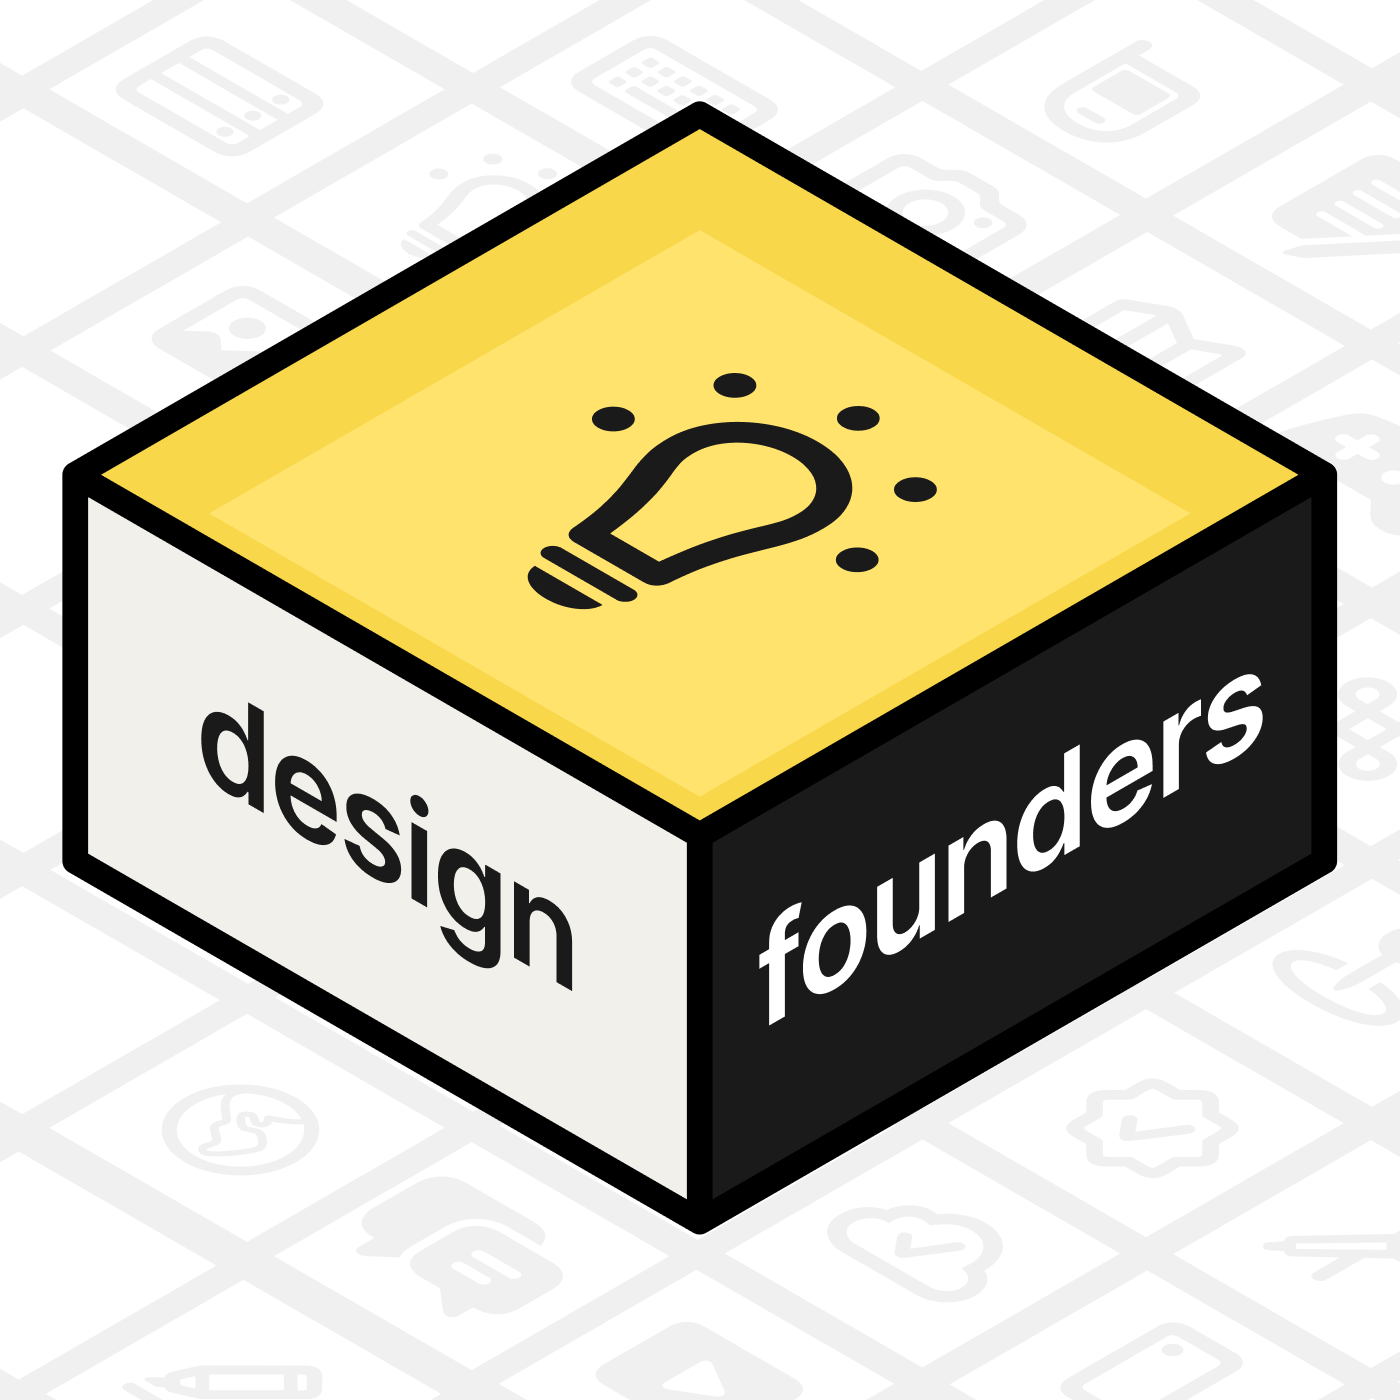
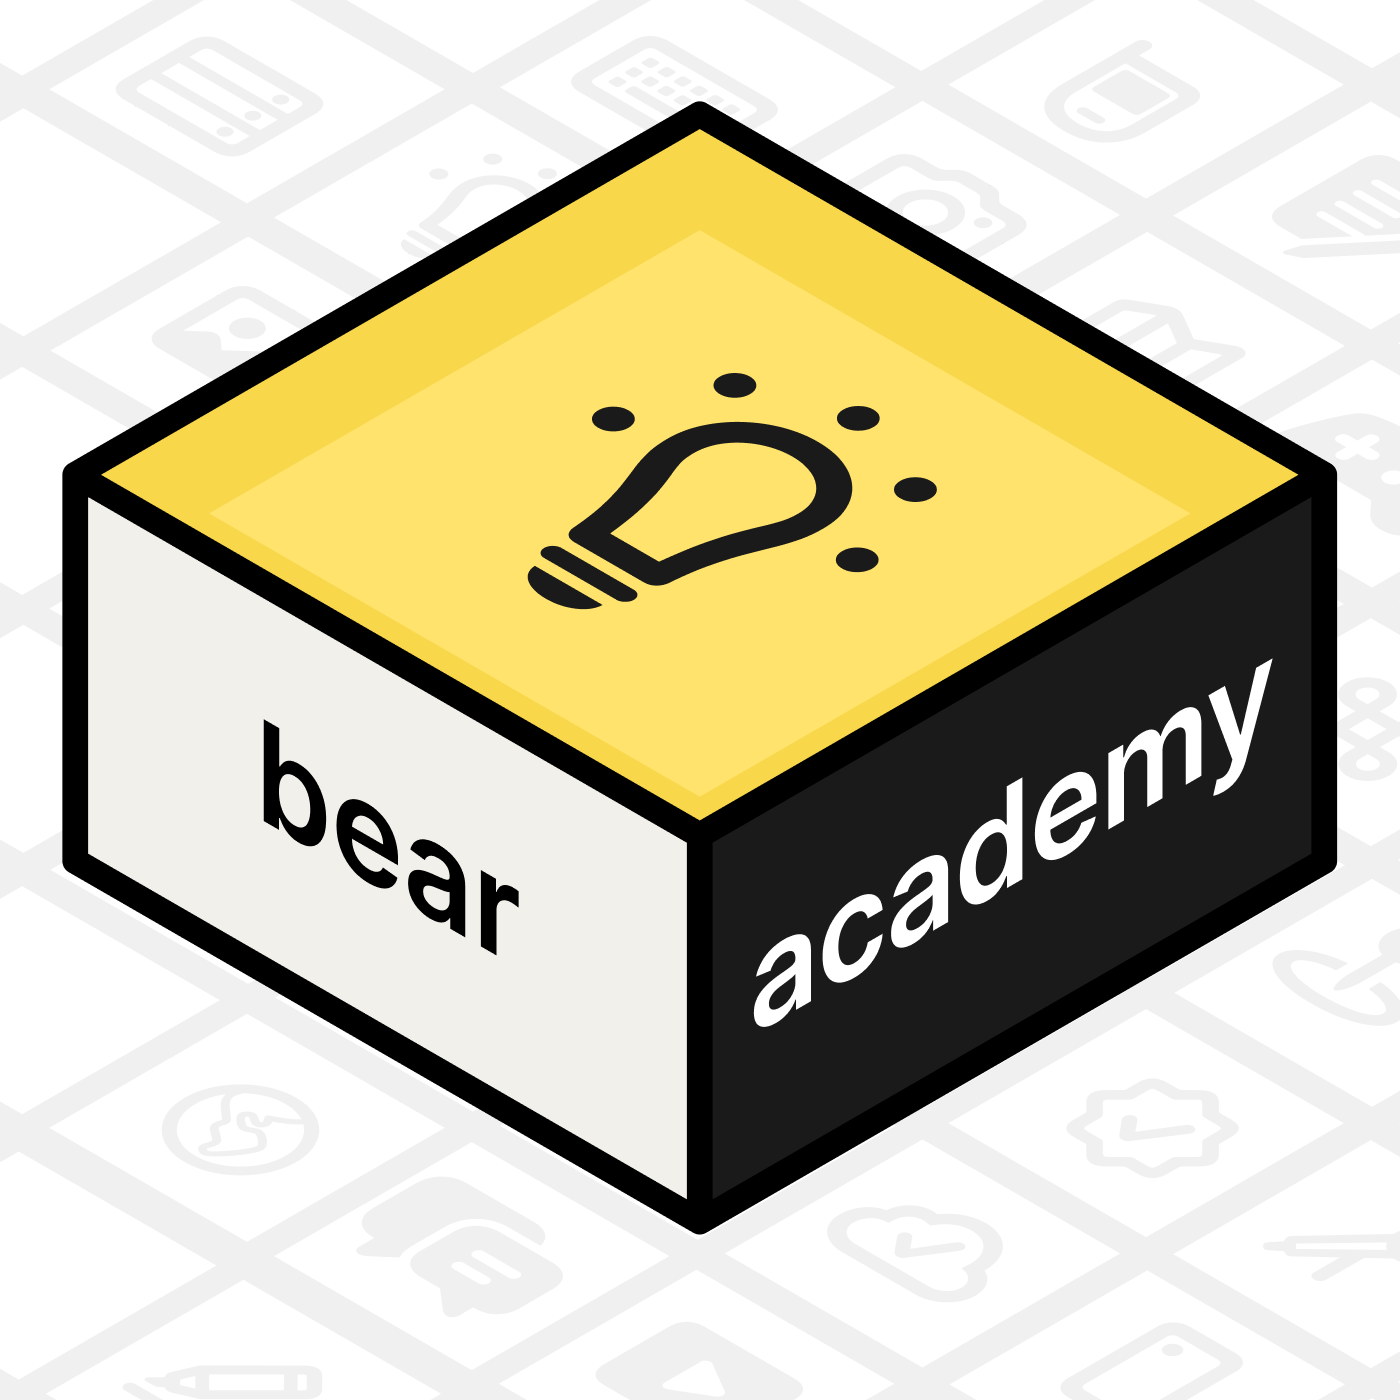
feat(podcast): /podcast 从 Design Founders 切换到 Bear Academy
- 标题/描述/封面/平台链接全部换成 Bear Academy（show id1536234805）
- 剧集编号改用真实序号 #53 Luca / #54 Felix，公司拼写修正为 Scarlo
- 单期链接保留 RedCircle + Apple + YouTube，去掉单期 Spotify
- 顶部 show 按钮：YouTube playlist / Spotify show / Apple
- 顺手修页脚邮箱 [email redacted] → [email redacted]（14.2 漏改）

Changed region(s): [[0.5221, 0.4607, 0.9214, 0.7371], [0.1229, 0.4914, 0.43, 0.7064]]

diff --git a/app/podcast/page.tsx b/app/podcast/page.tsx
@@ -5,7 +5,7 @@ import { episodes } from "../data/episodes"
 const platformLinks = [
   {
     name: "YouTube",
-    href: "https://www.youtube.com/playlist?list=PL-RK8UwXSeaoDwy7RZmpSrAj5AQirm0Fw",
+    href: "https://www.youtube.com/playlist?list=PL-RK8UwXSearlJdaf38IARoUhXeGWQoAL",
     icon: (
       <svg width="20" height="20" viewBox="0 0 24 24" fill="currentColor">
         <path d="M23.498 6.186a3.016 3.016 0 0 0-2.122-2.136C19.505 3.545 12 3.545 12 3.545s-7.505 0-9.377.505A3.017 3.017 0 0 0 .502 6.186C0 8.07 0 12 0 12s0 3.93.502 5.814a3.016 3.016 0 0 0 2.122 2.136c1.871.505 9.376.505 9.376.505s7.505 0 9.377-.505a3.015 3.015 0 0 0 2.122-2.136C24 15.93 24 12 24 12s0-3.93-.502-5.814zM9.545 15.568V8.432L15.818 12l-6.273 3.568z" />
@@ -14,7 +14,7 @@ const platformLinks = [
   },
   {
     name: "Spotify",
-    href: "https://open.spotify.com/show/2THaWIyoL0G8CoMupHehZr",
+    href: "https://open.spotify.com/show/4OoASKWSTlsdb2nCQ8BaeQ",
     icon: (
       <svg width="20" height="20" viewBox="0 0 24 24" fill="currentColor">
         <path d="M12 0C5.4 0 0 5.4 0 12s5.4 12 12 12 12-5.4 12-12S18.66 0 12 0zm5.521 17.34c-.24.359-.66.48-1.021.24-2.82-1.74-6.36-2.101-10.561-1.141-.418.122-.779-.179-.899-.539-.12-.421.18-.78.54-.9 4.56-1.021 8.52-.6 11.64 1.32.42.18.479.659.301 1.02zm1.44-3.3c-.301.42-.841.6-1.262.3-3.239-1.98-8.159-2.58-11.939-1.38-.479.12-1.02-.12-1.14-.6-.12-.48.12-1.021.6-1.141C9.6 9.9 15 10.561 18.72 12.84c.361.181.54.78.241 1.2zm.12-3.36C15.24 8.4 8.82 8.16 5.16 9.301c-.6.179-1.2-.181-1.38-.721-.18-.601.18-1.2.72-1.381 4.26-1.26 11.28-1.02 15.721 1.621.539.3.719 1.02.419 1.56-.299.421-1.02.599-1.559.3z" />
@@ -23,7 +23,7 @@ const platformLinks = [
   },
   {
     name: "Apple Podcasts",
-    href: "https://podcasts.apple.com/us/podcast/design-founders/id1885803621",
+    href: "https://podcasts.apple.com/nz/podcast/bear-academy/id1536234805",
     icon: (
       <svg width="20" height="20" viewBox="0 0 24 24" fill="currentColor">
         <path d="M5.34 0A5.328 5.328 0 0 0 0 5.34v13.32A5.328 5.328 0 0 0 5.34 24h13.32A5.328 5.328 0 0 0 24 18.66V5.34A5.328 5.328 0 0 0 18.66 0H5.34zm6.525 2.568c2.336 0 4.448.902 6.056 2.587 1.224 1.272 1.912 2.619 2.264 4.392.12.6-.36 1.2-.96 1.2h-.12c-.48 0-.84-.36-.96-.84-.264-1.272-.744-2.352-1.68-3.36C14.93 5.04 13.27 4.26 11.4 4.26c-3.36 0-6.12 2.76-6.12 6.12 0 2.04.96 3.84 2.52 4.92.36.24.48.72.24 1.08-.24.36-.72.48-1.08.24C4.92 15.12 3.6 12.84 3.6 10.38c0-4.26 3.48-7.812 8.265-7.812zM12 7.32c1.8 0 3.372.864 4.38 2.304.48.72.78 1.44.936 2.328.072.36-.072.72-.36.96-.12.12-.288.168-.456.168-.36 0-.648-.24-.72-.6-.096-.6-.312-1.128-.636-1.632-.72-1.08-1.92-1.728-3.24-1.728-2.208 0-3.96 1.728-3.96 3.96 0 1.2.48 2.16 1.44 2.976.36.24.36.72.12 1.08-.264.36-.72.36-1.08.12C7.2 16.2 6.36 14.616 6.36 12.6c0-3.12 2.52-5.28 5.64-5.28zm.024 4.368c.984 0 1.8.816 1.8 1.8 0 .672-.36 1.248-.888 1.56v3.168c0 .504-.408.912-.912.912a.916.916 0 0 1-.912-.912V15.12a1.8 1.8 0 0 1-.888-1.56c0-.984.816-1.872 1.8-1.872z" />
@@ -50,7 +50,7 @@ export default function PodcastPage() {
             <div className="w-[160px] h-[160px] lg:w-[200px] lg:h-[200px] rounded-2xl overflow-hidden shadow-[0_4px_16px_rgba(0,0,0,0.1)] shrink-0">
               <Image
                 src="/images/podcast/cover.png"
-                alt="Design Founders podcast logo"
+                alt="Bear Academy podcast logo"
                 width={200}
                 height={200}
                 className="w-full h-full object-cover"
@@ -59,13 +59,13 @@ export default function PodcastPage() {
             </div>
             <div className="flex flex-col gap-4">
               <h1 className="text-[32px] lg:text-[40px] font-semibold leading-[40px] lg:leading-[48px] tracking-[-1.4px] text-gray-900">
-                Design Founders
+                Bear Academy
               </h1>
               <p className="text-[16px] leading-6 tracking-[-0.8px] text-gray-700 max-w-[520px]">
-                The founder&apos;s journey, seen differently. Real conversations
-                with design-minded founders about the product decisions that
-                matter: MVP trade-offs, growth bottlenecks, AI workflows, and
-                the thinking behind what actually gets built.
+                Candid conversations with founders, designers, and builders
+                about the decisions behind what actually ships. Product bets,
+                design craft, AI workflows, and the messy middle of turning an
+                idea into something people use. Hosted by Bear Liu.
               </p>
               <div className="flex flex-wrap gap-3 mt-1">
                 {platformLinks.map((platform) => (
@@ -99,7 +99,7 @@ export default function PodcastPage() {
                 <div className="w-full sm:w-[280px] aspect-video rounded-xl overflow-hidden shrink-0 bg-gray-900">
                   <Image
                     src={ep.coverImage}
-                    alt={`EP${String(ep.number).padStart(2, "0")}: ${ep.title}`}
+                    alt={`#${ep.number}: ${ep.title}`}
                     width={480}
                     height={270}
                     className="w-full h-full object-contain"
@@ -108,7 +108,7 @@ export default function PodcastPage() {
                 <div className="flex flex-col gap-2 flex-1 min-w-0">
                   <div className="flex items-center gap-2">
                     <span className="text-[12px] font-medium text-gray-500">
-                      EP{String(ep.number).padStart(2, "0")}
+                      #{ep.number}
                     </span>
                     <span className="text-[12px] text-gray-400">·</span>
                     <span className="text-[12px] text-gray-500">
@@ -138,24 +138,6 @@ export default function PodcastPage() {
                           <path d="M23.498 6.186a3.016 3.016 0 0 0-2.122-2.136C19.505 3.545 12 3.545 12 3.545s-7.505 0-9.377.505A3.017 3.017 0 0 0 .502 6.186C0 8.07 0 12 0 12s0 3.93.502 5.814a3.016 3.016 0 0 0 2.122 2.136c1.871.505 9.376.505 9.376.505s7.505 0 9.377-.505a3.015 3.015 0 0 0 2.122-2.136C24 15.93 24 12 24 12s0-3.93-.502-5.814zM9.545 15.568V8.432L15.818 12l-6.273 3.568z" />
                         </svg>
                         YouTube
-                      </a>
-                    )}
-                    {ep.spotifyUrl && (
-                      <a
-                        href={ep.spotifyUrl}
-                        target="_blank"
-                        rel="noopener noreferrer"
-                        className="flex items-center gap-1.5 text-[13px] font-medium text-gray-600 hover:text-gray-900 transition-colors"
-                      >
-                        <svg
-                          width="14"
-                          height="14"
-                          viewBox="0 0 24 24"
-                          fill="currentColor"
-                        >
-                          <path d="M12 0C5.4 0 0 5.4 0 12s5.4 12 12 12 12-5.4 12-12S18.66 0 12 0zm5.521 17.34c-.24.359-.66.48-1.021.24-2.82-1.74-6.36-2.101-10.561-1.141-.418.122-.779-.179-.899-.539-.12-.421.18-.78.54-.9 4.56-1.021 8.52-.6 11.64 1.32.42.18.479.659.301 1.02zm1.44-3.3c-.301.42-.841.6-1.262.3-3.239-1.98-8.159-2.58-11.939-1.38-.479.12-1.02-.12-1.14-.6-.12-.48.12-1.021.6-1.141C9.6 9.9 15 10.561 18.72 12.84c.361.181.54.78.241 1.2zm.12-3.36C15.24 8.4 8.82 8.16 5.16 9.301c-.6.179-1.2-.181-1.38-.721-.18-.601.18-1.2.72-1.381 4.26-1.26 11.28-1.02 15.721 1.621.539.3.719 1.02.419 1.56-.299.421-1.02.599-1.559.3z" />
-                        </svg>
-                        Spotify
                       </a>
                     )}
                     {ep.applePodcastsUrl && (
@@ -232,7 +214,7 @@ export default function PodcastPage() {
             <img src="/images/social/x.svg" alt="" className="size-6" />
           </a>
           <a
-            href="mailto:[email redacted]"
+            href="mailto:[email redacted]"
             aria-label="Email"
             className="size-6 hover:opacity-70 transition-opacity"
           >

diff --git a/app/data/episodes.ts b/app/data/episodes.ts
@@ -7,29 +7,27 @@ export interface Episode {
   publishDate: string
   coverImage: string
   youtubeUrl: string
-  spotifyUrl?: string
   applePodcastsUrl?: string
   redcircleUrl: string
 }
 
 export const episodes: Episode[] = [
   {
-    number: 1,
+    number: 53,
     title: "Why Selling Design Keeps Designers Stuck",
     guest: "Luca Richards",
-    company: "Skarlo",
+    company: "Scarlo",
     description:
-      "Luca runs Skarlo, a London-based product studio now taking equity in YC and Antler companies. We unpack how he went from selling $1,000 websites to sharing cap tables with venture-backed startups, and why the game has shifted from \"why design\" to \"why you.\"",
+      "Luca runs Scarlo, a London-based product studio now taking equity in YC and Antler companies. We unpack how he went from selling $1,000 websites to sharing cap tables with venture-backed startups, and why the game has shifted from \"why design\" to \"why you.\"",
     publishDate: "2026-03-17",
     coverImage: "/images/podcast/ep01-Luca-Richards.png",
     youtubeUrl: "https://youtu.be/PAuRdX0e_XQ",
-    spotifyUrl: "https://open.spotify.com/episode/409D8IxnXx8We6VADQ7VmE",
-    applePodcastsUrl: "https://podcasts.apple.com/us/podcast/ep01-why-selling-design-keeps-designers-stuck-luca/id1885803621?i=1000755744901",
+    applePodcastsUrl: "https://podcasts.apple.com/nz/podcast/53-luca-richards-scarlo-why-selling-design-keeps-designers/id1536234805?i=1000771527444",
     redcircleUrl:
-      "https://redcircle.com/shows/c3c12e55-1f9c-4b33-8c5c-e01965485b70/episodes/7e0f9552-7d5f-4cfa-8a54-d958dc094829",
+      "https://redcircle.com/shows/886cd1db-e552-44b6-bb1a-0cdd030a03bc/episodes/1461cc06-3c37-4313-bd6f-8b790bce3308",
   },
   {
-    number: 2,
+    number: 54,
     title: "Free Is Expensive",
     guest: "Felix Lee",
     company: "ADPList",
@@ -38,9 +36,8 @@ export const episodes: Episode[] = [
     publishDate: "2026-03-31",
     coverImage: "/images/podcast/ep02-Felix-Lee.png",
     youtubeUrl: "https://youtu.be/Ims58n4PrNY",
-    spotifyUrl: "https://open.spotify.com/episode/3JMaLBITDWjhS1zjTyhTzU",
-    applePodcastsUrl: "https://podcasts.apple.com/nz/podcast/ep02-free-is-expensive-felix-lee-adplist/id1885803621?i=1000756037827",
+    applePodcastsUrl: "https://podcasts.apple.com/nz/podcast/54-felix-lee-adplist-free-is-expensive/id1536234805?i=1000771527293",
     redcircleUrl:
-      "https://redcircle.com/shows/c3c12e55-1f9c-4b33-8c5c-e01965485b70/ep/c05e8a69-c89b-469a-8ef9-5a5db6651b5b",
+      "https://redcircle.com/shows/886cd1db-e552-44b6-bb1a-0cdd030a03bc/episodes/5772de62-898e-4caf-822a-c2dbc53e58ad",
   },
 ]

diff --git a/plan.md b/plan.md
@@ -511,7 +511,8 @@ Enable visitor/pageview tracking and real-user performance monitoring (Core Web 
 **RESUME HERE (next session):**
 - 14.3 (Newsletter + Video) — ✅ DONE 2026-06-03 (lightweight links, not designed sections — those stay with Claude Design in 14.4). Added **Newsletter** (→ `https://en.bear.academy`) + **Video** (→ `https://www.youtube.com/@Bearliu`) to Nav (desktop gap-8→gap-6 to fit 7 links + mobile menu), and YouTube + Newsletter icons to both footers (homepage inline + shared `Footer.tsx`). New icons: `public/images/social/{youtube,newsletter}.svg`. Newsletter now points to `https://newsletter.bearliu.com` (domain redirect live, swapped from the temporary `en.bear.academy` on 2026-06-03). Build passes, 0 console errors.
 - 14.4 (Framework library + homepage sections) — PAUSED (see decision above): waiting on (a) weekly teardown cadence proven, (b) richer framework library, (c) Claude Design's output (Bear driving, using DESIGN-SYSTEM.md).
-- 14.5 (Obsidian sync script) + 14.6 (Bear Academy section) — optional, later.
+- 14.6 (Bear Academy section) — ✅ **DONE in working tree 2026-06-07 (pending commit + deploy).** Converted `/podcast` from Design Founders → Bear Academy (content/link/cover swap, reused existing visual framework). `app/podcast/page.tsx`: title→Bear Academy, new hero desc (direction A, Claude-drafted), cover alt, top 3 show buttons (YouTube playlist `PL-RK8UwXSearlJdaf38IARoUhXeGWQoAL` / Spotify show `4OoASKWSTlsdb2nCQ8BaeQ` / Apple `id1536234805`), removed episode-level Spotify block, footer email `[email redacted]`→`[email redacted]` (14.2 leftover). `app/data/episodes.ts`: Luca→#53 (company Skarlo→**Scarlo**, per Apple), Felix→#54; per-episode Apple (`id1536234805?i=…`, fetched via iTunes lookup API) + RedCircle (new feed `886cd1db…`); dropped `spotifyUrl` field; YouTube/title/desc unchanged. Card label `EP0N`→`#N`. Cover replaced with Bear Academy box art. Verified: `npm run build` clean (`/podcast` static), grep 0 stale refs, Playwright snapshot 0 console errors. NOTE: local dev showed old cover (Next image cache, `.next/cache/images`) — source file confirmed correct, Vercel re-optimises on deploy. Full plan: `~/.claude/plans/design-founder-shimmying-grove.md`.
+- 14.5 (Obsidian sync script) — optional, later.
 - To re-port/add a teardown: `node scripts/port-teardown.mjs --report "<vault path>" --slug <slug> --date <YYYY-MM-DD> --tags "teardown,..."` then commit. Apple Health still excluded (incomplete).
 
 ## Context
@@ -585,9 +586,12 @@ Original plan notes below:
 ### Phase 14.5 — Obsidian → site sync script (OPTIONAL)
 - For the weekly cadence: a small script reads vault MD, maps/adds frontmatter, writes `.mdx` + copies any assets into `content/`. Build only after the manual format + component kit are proven.
 
-### Phase 14.6 — Bear Academy section (FINAL, OPTIONAL)
-- Take down "Design Founders" branding/content on `/podcast` (currently `app/podcast/page.tsx` + the design-founders Apple link).
-- Reuse its style/format to publish **Bear Academy** podcast content instead.
+### Phase 14.6 — Bear Academy section (✅ DONE in working tree 2026-06-07, pending commit + deploy)
+- Take down "Design Founders" branding/content on `/podcast` (currently `app/podcast/page.tsx` + the design-founders Apple link `id1885803621`); reuse the same style/format for **Bear Academy** (Apple `id1536234805`, 50+ eps = seasons 1–3, old visual). Luca + Felix migrate into the Bear Academy feed = first two of the refreshed S4 era; future guests (Lee Young 李耀, Xinran 欣然) = S4.
+- See RESUME HERE bullet + full plan `~/.claude/plans/design-founder-shimmying-grove.md` for exact edits, decisions, and gating inputs.
+- **Show description draft** (2 directions, awaiting Bear's pick → then /positioning + /writing polish; no em-dashes):
+  - A (tight): *Bear Academy is a series of candid conversations with founders, designers, and builders about the decisions behind what actually ships. Product bets, design craft, AI workflows, and the messy middle of turning an idea into something people use. Hosted by Bear Liu.*
+  - B (FDP, more specific): *Bear Academy goes inside the work of building products. Each episode is an honest conversation with a founder, designer, or operator about the calls that shaped what they shipped: where to place the first bet, what to cut, how AI changed the workflow, and what they would do differently. Hosted by Bear Liu.*
 
 ## Dependencies
 - 14.0 blocks Claude Design, which blocks 14.4 integration.